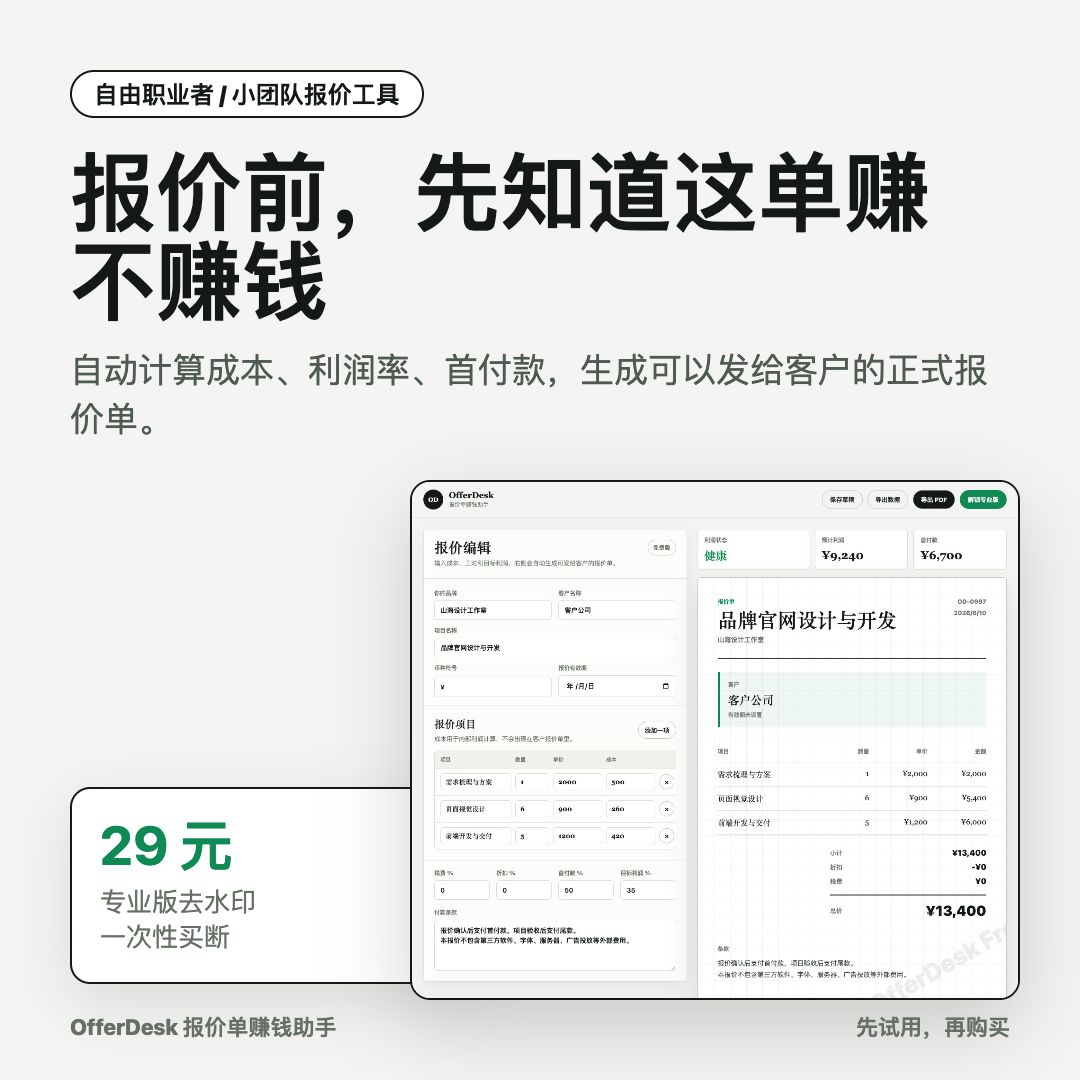
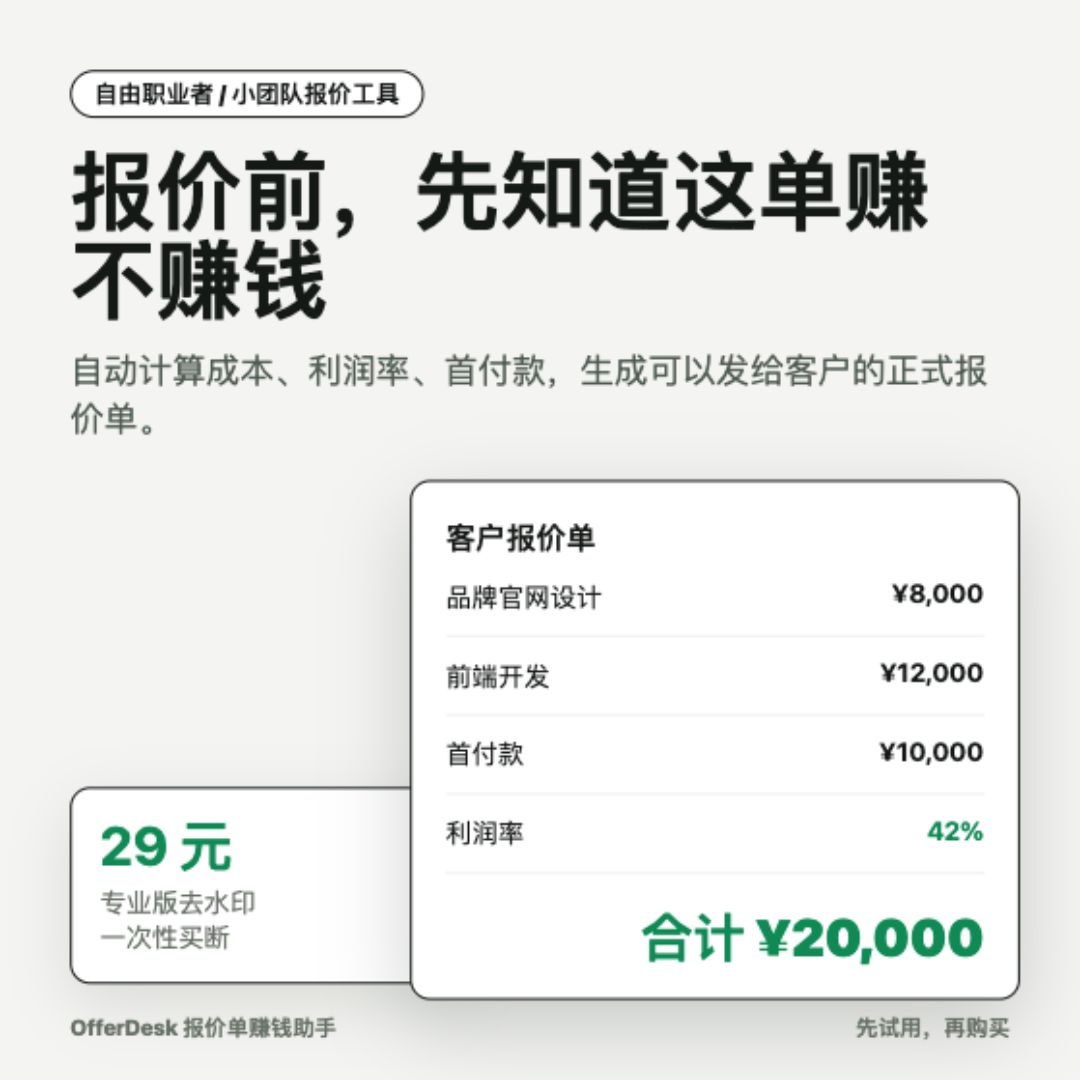
Make social posters self contained

diff --git a/launch/social-posters.html b/launch/social-posters.html
@@ -77,7 +77,7 @@
         line-height: 1;
       }
 
-      .screen {
+      .mock {
         position: absolute;
         right: 60px;
         bottom: 80px;
@@ -85,9 +85,31 @@
         height: 520px;
         border: 2px solid #151916;
         border-radius: 20px;
-        object-fit: cover;
-        object-position: top left;
+        background: #ffffff;
+        padding: 34px;
         box-shadow: 0 28px 80px rgba(20, 26, 22, 0.2);
+      }
+
+      .mock-title {
+        font-size: 30px;
+        font-weight: 1000;
+      }
+
+      .mock-line {
+        display: flex;
+        justify-content: space-between;
+        gap: 18px;
+        border-bottom: 2px solid #eef1ed;
+        padding: 20px 0;
+        font-size: 26px;
+      }
+
+      .mock-total {
+        margin-top: 28px;
+        color: #0f8a55;
+        font-size: 52px;
+        font-weight: 1000;
+        text-align: right;
       }
 
       .panel {
@@ -213,7 +235,14 @@
         <strong>29 元</strong>
         <span>专业版去水印<br />一次性买断</span>
       </div>
-      <img class="screen" src="./offerdesk-screenshot.jpg" alt="OfferDesk 软件截图" />
+      <div class="mock">
+        <div class="mock-title">客户报价单</div>
+        <div class="mock-line"><span>品牌官网设计</span><strong>¥8,000</strong></div>
+        <div class="mock-line"><span>前端开发</span><strong>¥12,000</strong></div>
+        <div class="mock-line"><span>首付款</span><strong>¥10,000</strong></div>
+        <div class="mock-line"><span>利润率</span><strong class="green">42%</strong></div>
+        <div class="mock-total">合计 ¥20,000</div>
+      </div>
       <div class="foot">
         <span>OfferDesk 报价单赚钱助手</span>
         <span>先试用，再购买</span>
